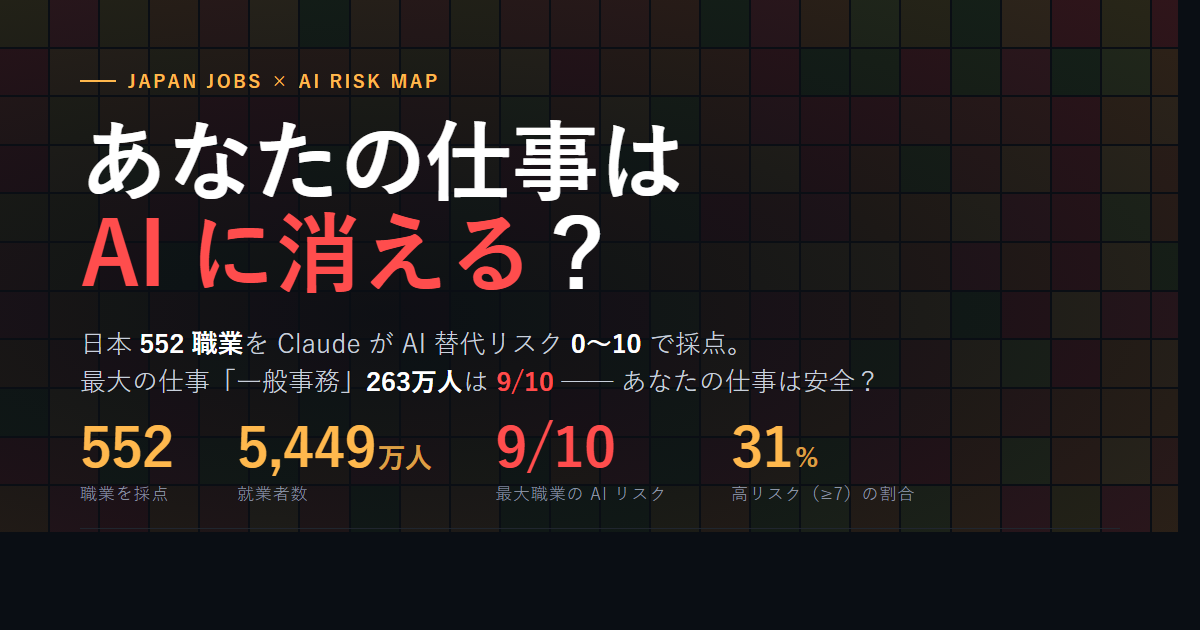
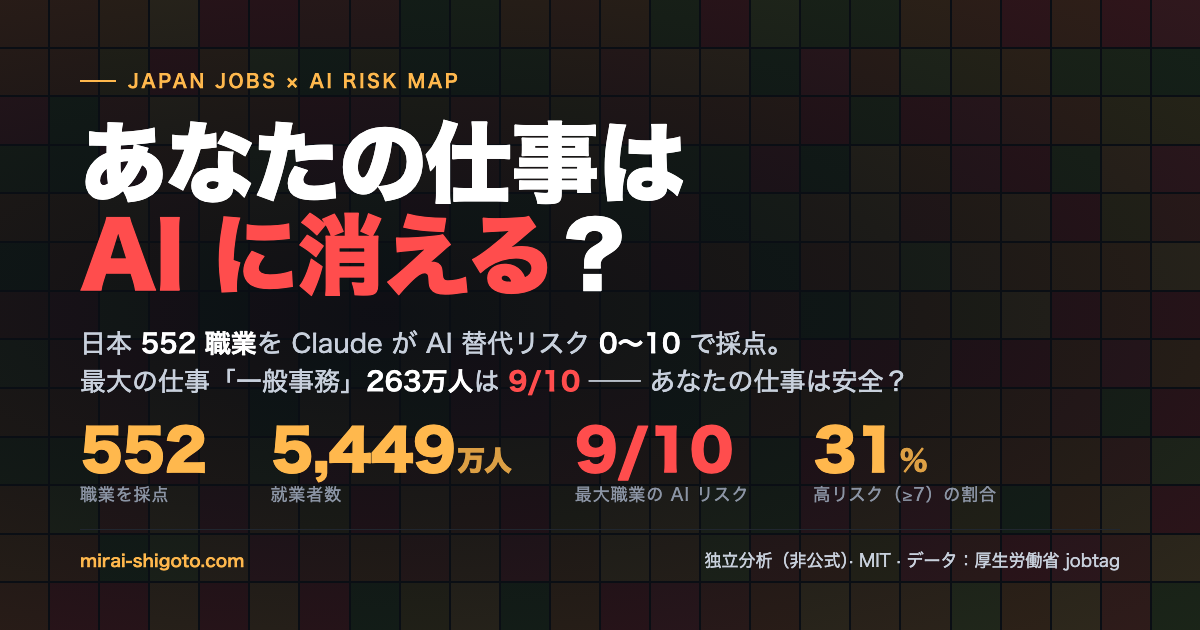
chore(privacy): re-render og.png without operator name in baked caption
og.png had "by Jason · MIT · データ：厚生労働省 jobtag" baked into the bottom
caption — the only PII surface that survived the source-code scrub because
the image is binary, not text. Replaced with "独立分析（非公式）· MIT ·
データ：厚生労働省 jobtag" — preserves the unofficial-status disclaimer and
data attribution while dropping the personal byline.

og-card.html updated, og.png re-rendered at exact 1200×630 (DPR 1) via
headless Chromium so social platforms get the correct OG dimensions.

Added scripts/make_og.py — small Playwright-based renderer that produces
og.png from og-card.html. Run any time the OG card source changes.

Note: previously cached previews on Telegram / X / Facebook / LINE will
keep the old image until each platform's debugger is hit (FB Sharing
Debugger, Telegram @WebpageBot, etc.) — same cache-bust workflow as
v0.4.0.

diff --git a/og-card.html b/og-card.html
@@ -155,7 +155,7 @@
       </div>
       <div class="bottom">
         <span><span class="url-strong">mirai-shigoto.com</span></span>
-        <span class="by">by Jason · MIT · データ：厚生労働省 jobtag</span>
+        <span class="by">独立分析（非公式）· MIT · データ：厚生労働省 jobtag</span>
       </div>
     </div>
     <script>

diff --git a/scripts/make_og.py b/scripts/make_og.py
@@ -1,0 +1,32 @@
+"""Render og-card.html → og.png at exactly 1200x630 via headless Chromium.
+
+Run after editing og-card.html (copy, stats, footer attribution, etc.).
+
+Usage:
+    uv run python scripts/make_og.py
+"""
+
+from playwright.sync_api import sync_playwright
+import pathlib
+
+
+REPO = pathlib.Path(__file__).resolve().parent.parent
+SOURCE = REPO / "og-card.html"
+OUT = REPO / "og.png"
+
+
+def main() -> None:
+    with sync_playwright() as p:
+        browser = p.chromium.launch()
+        ctx = browser.new_context(viewport={"width": 1200, "height": 630}, device_scale_factor=1)
+        page = ctx.new_page()
+        page.goto(f"file://{SOURCE}")
+        page.wait_for_load_state("networkidle")
+        page.screenshot(path=str(OUT), clip={"x": 0, "y": 0, "width": 1200, "height": 630}, omit_background=False)
+        browser.close()
+    size = OUT.stat().st_size
+    print(f"Wrote {OUT} ({size:,} bytes)")
+
+
+if __name__ == "__main__":
+    main()
